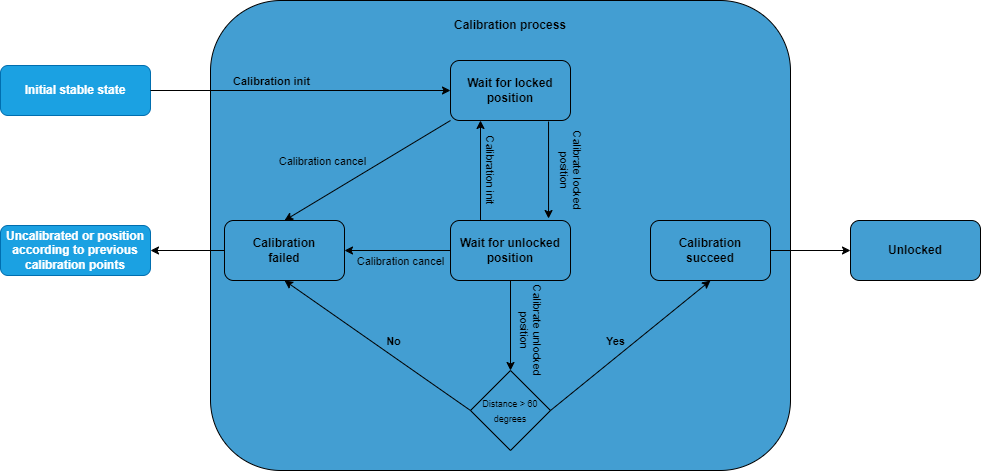
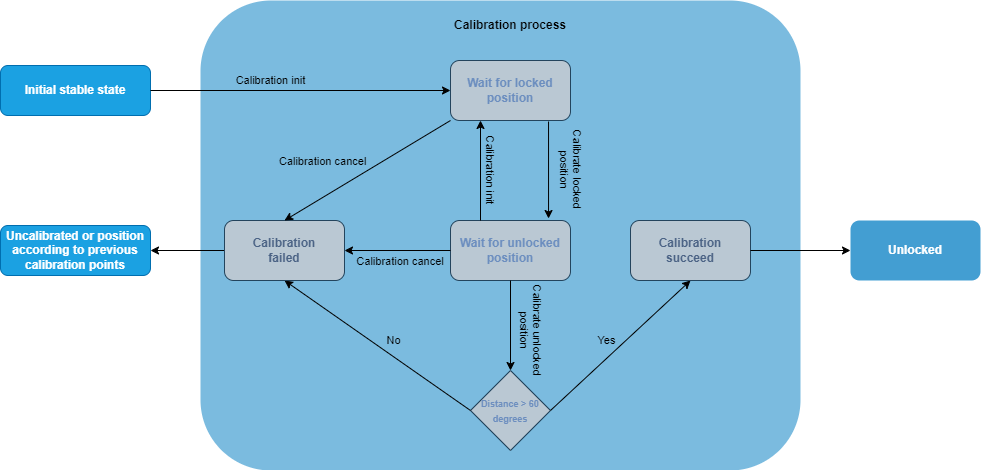
final lock calibration process diagram

diff --git a/docs/source/howtos/lock-calibration.rst b/docs/source/howtos/lock-calibration.rst
@@ -22,11 +22,8 @@ To properly calibrate locked and unlocked positions for the lock you need to:
 
 When you formed command to be send then :doc:`encrypt <../ptls/secured_communication>` and send on :ref:`API commands characteristic <api_commands_characteristic>`.
 
-Each action can be performed only in specific lock states. Here is the Lock state diagram:
+Each action can be performed only in specific calibration state. Here is the calibration state diagram:
 
-.. image:: ../images/lock-states-diagram.png
+.. image:: ../images/lock-calibration-process.png
     :align: center
-    :alt: lock states diagram
-
-| Lock states presented with blue fields and white letters are stable states. 
-| States showed using grey fields and blue letters are temporary states.
+    :alt: lock calibration diagram
